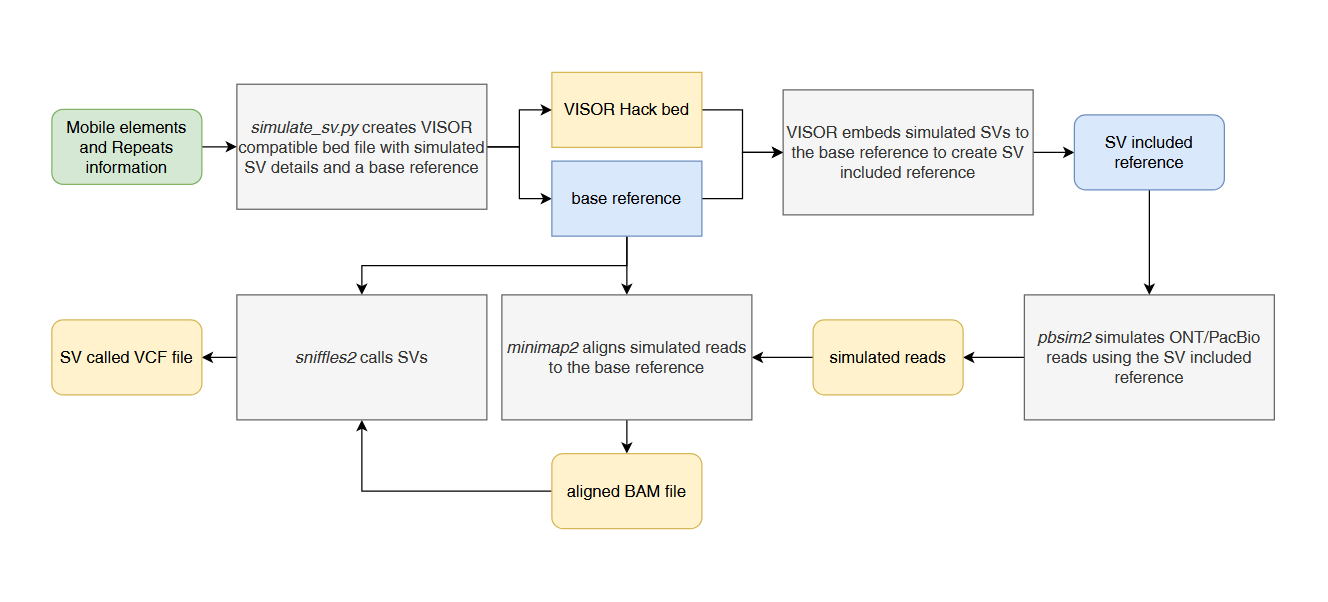
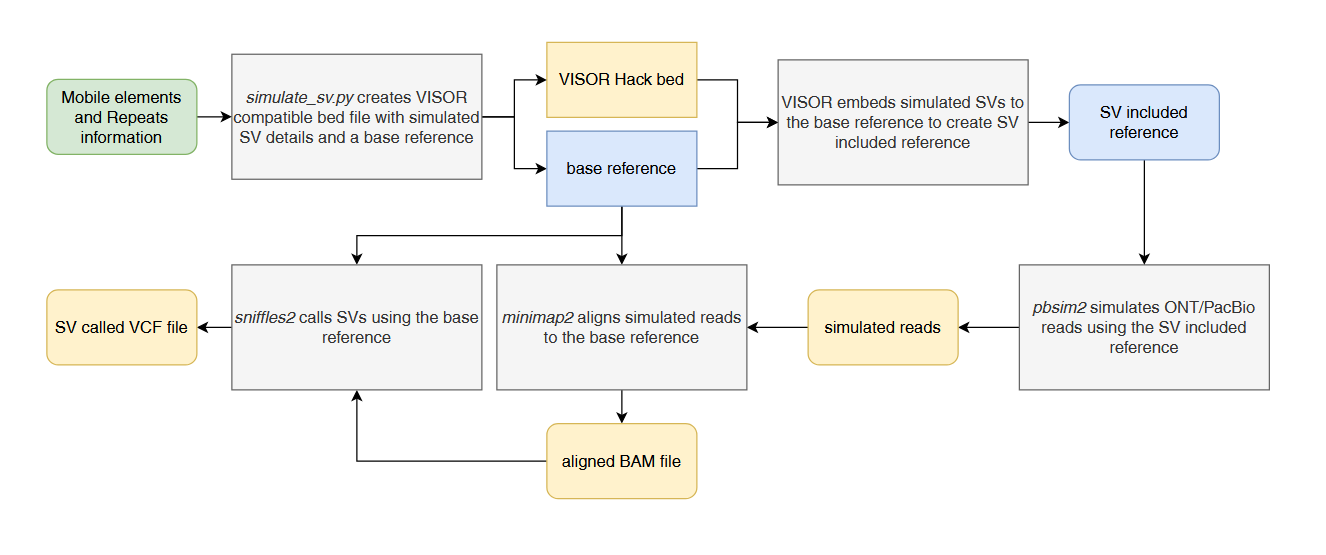
update doc

diff --git a/docs/SV_simulaton.md b/docs/SV_simulaton.md
@@ -1,9 +1,9 @@
 
 # Structural Variant Simulation Pipeline
 
-This following figure summarizes a simulation-based pipeline comprising SV generation, embedding into a reference genome, read simulation, and variant calling.
+The following figure summarises a SV simulation pipeline comprising SV generation, embedding into a reference genome, read simulation, and variant calling.
 
 ![Illustration](/images/sv_simulation_pipeline.png)
 
-bash script `scripts/sim_sv.sh` contains the pipeline.
-python script `src/simulate_sv.py` creates the VISOR compatible SV details in bed format.
+The bash script `scripts/sim_sv.sh` contains the pipeline.
+The python script `src/simulate_sv.py` creates the [VISOR compatible SV details in bed format](https://davidebolo1993.github.io/visordoc/usage/usage.html#visor-hack).
